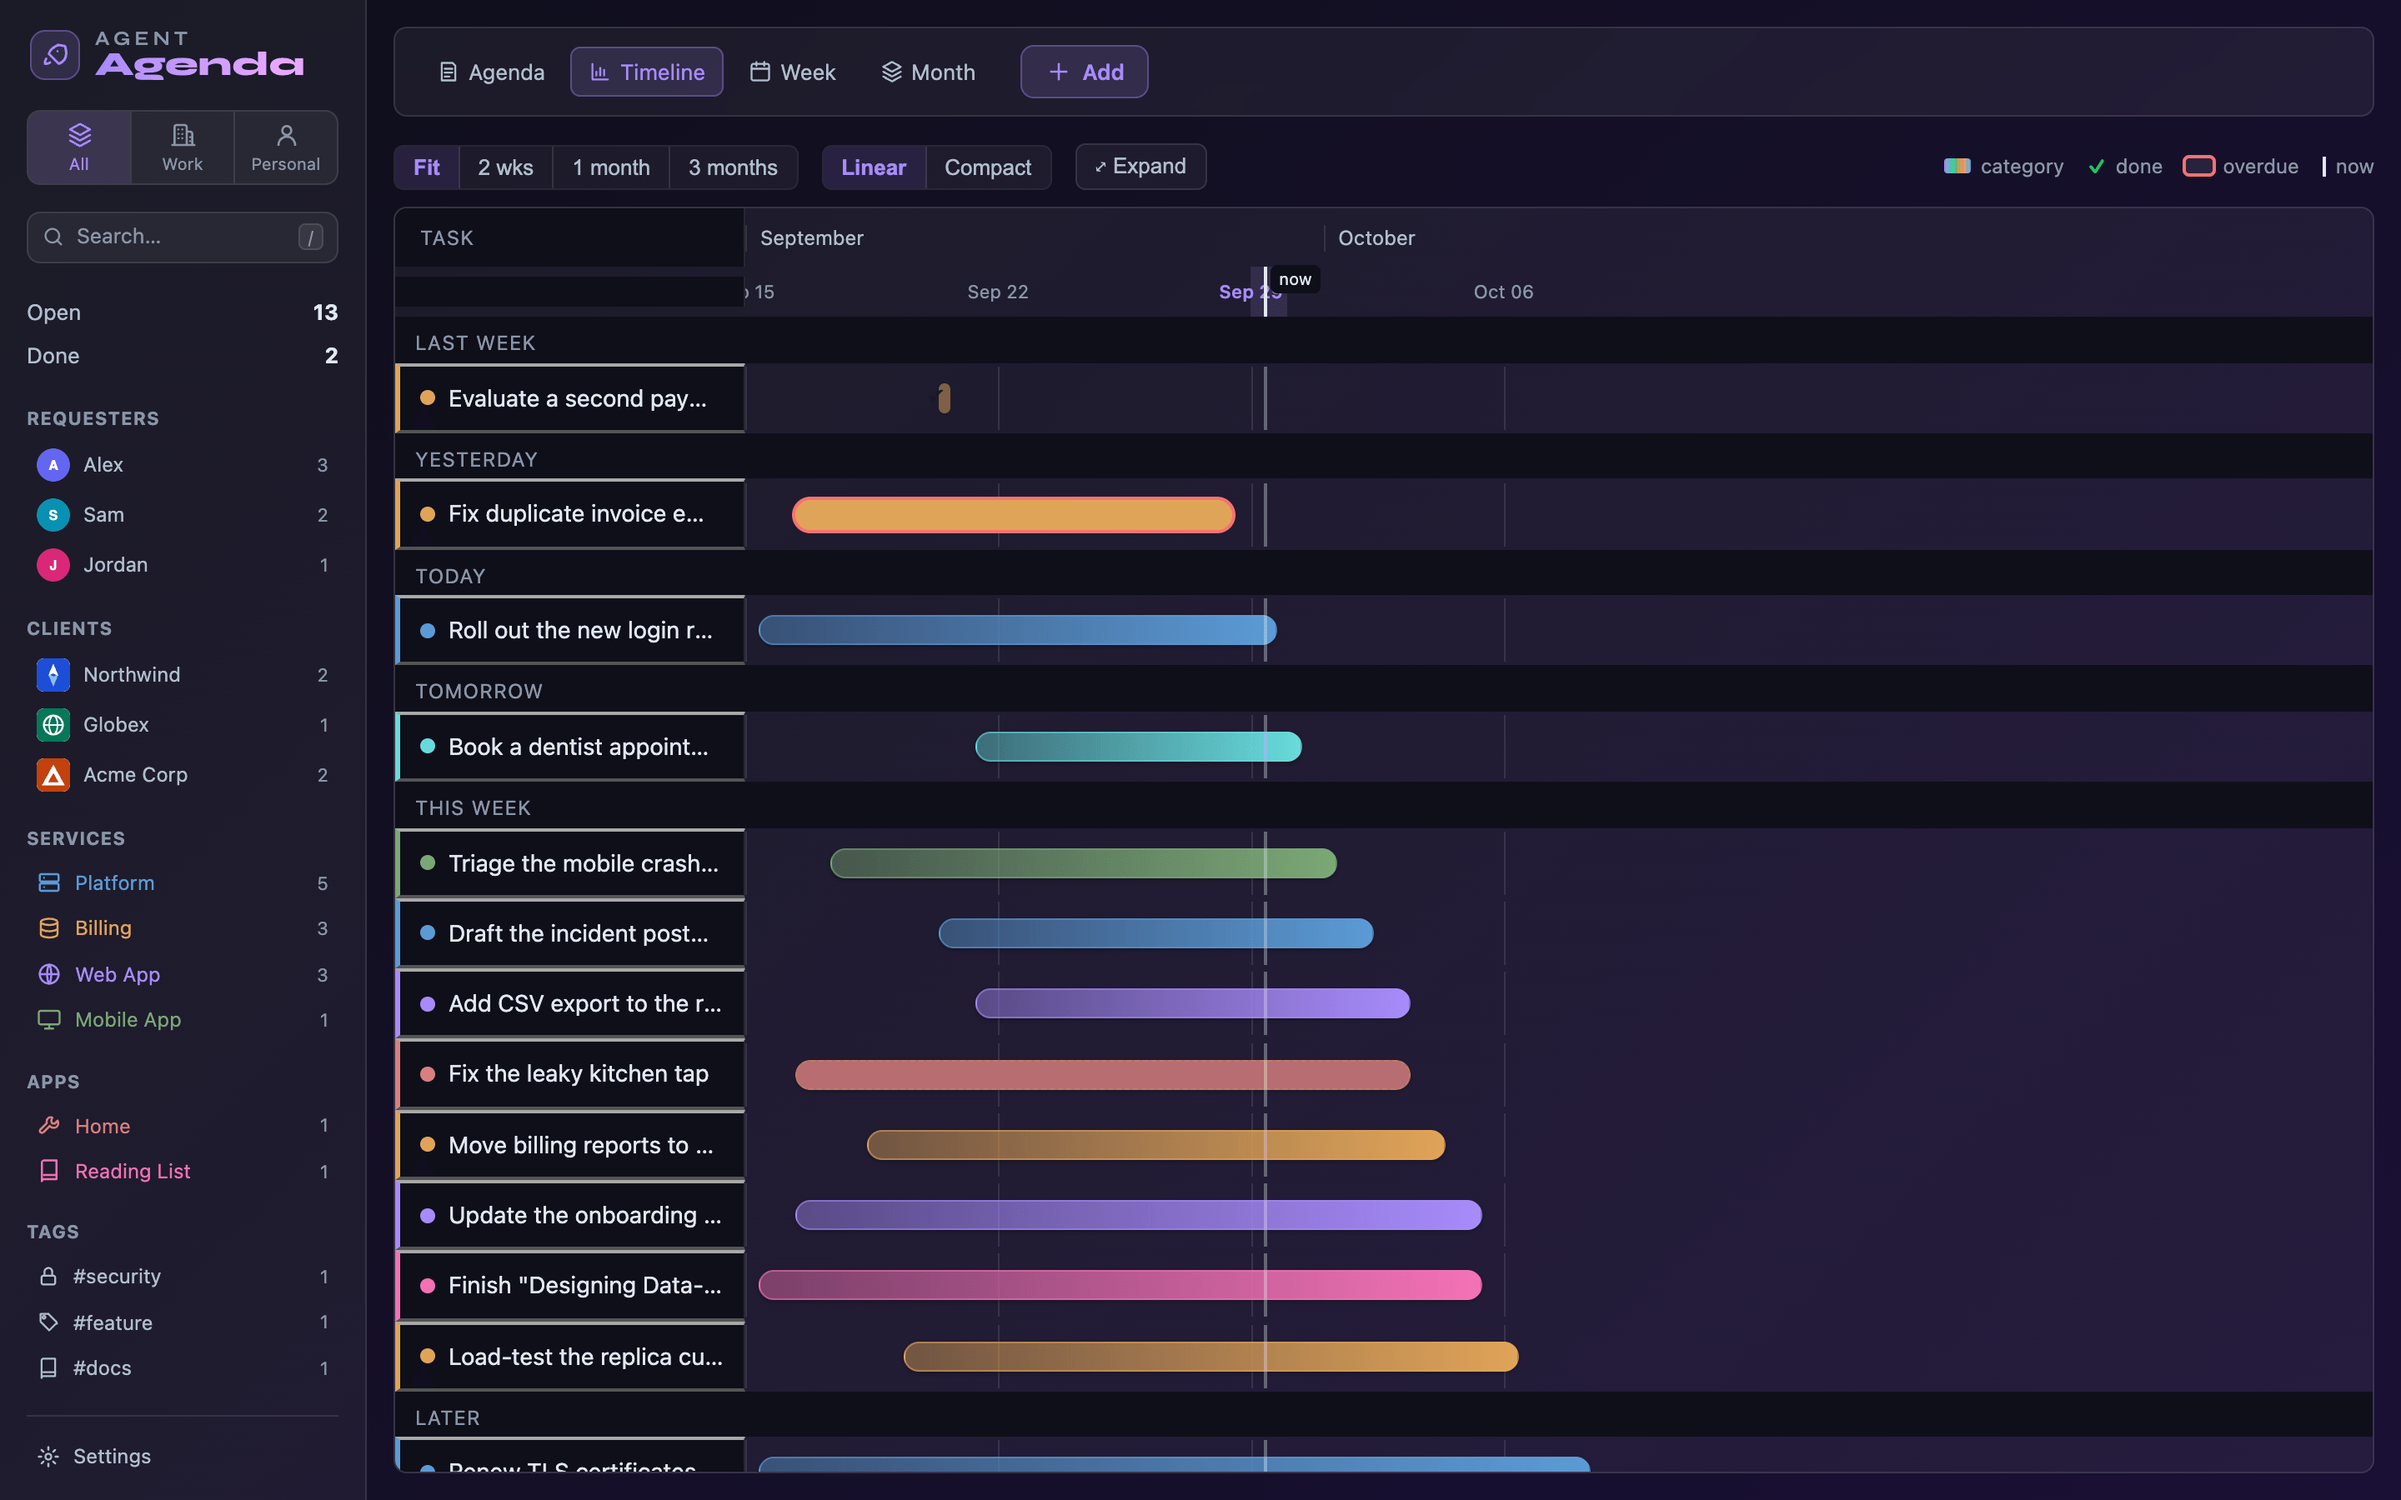
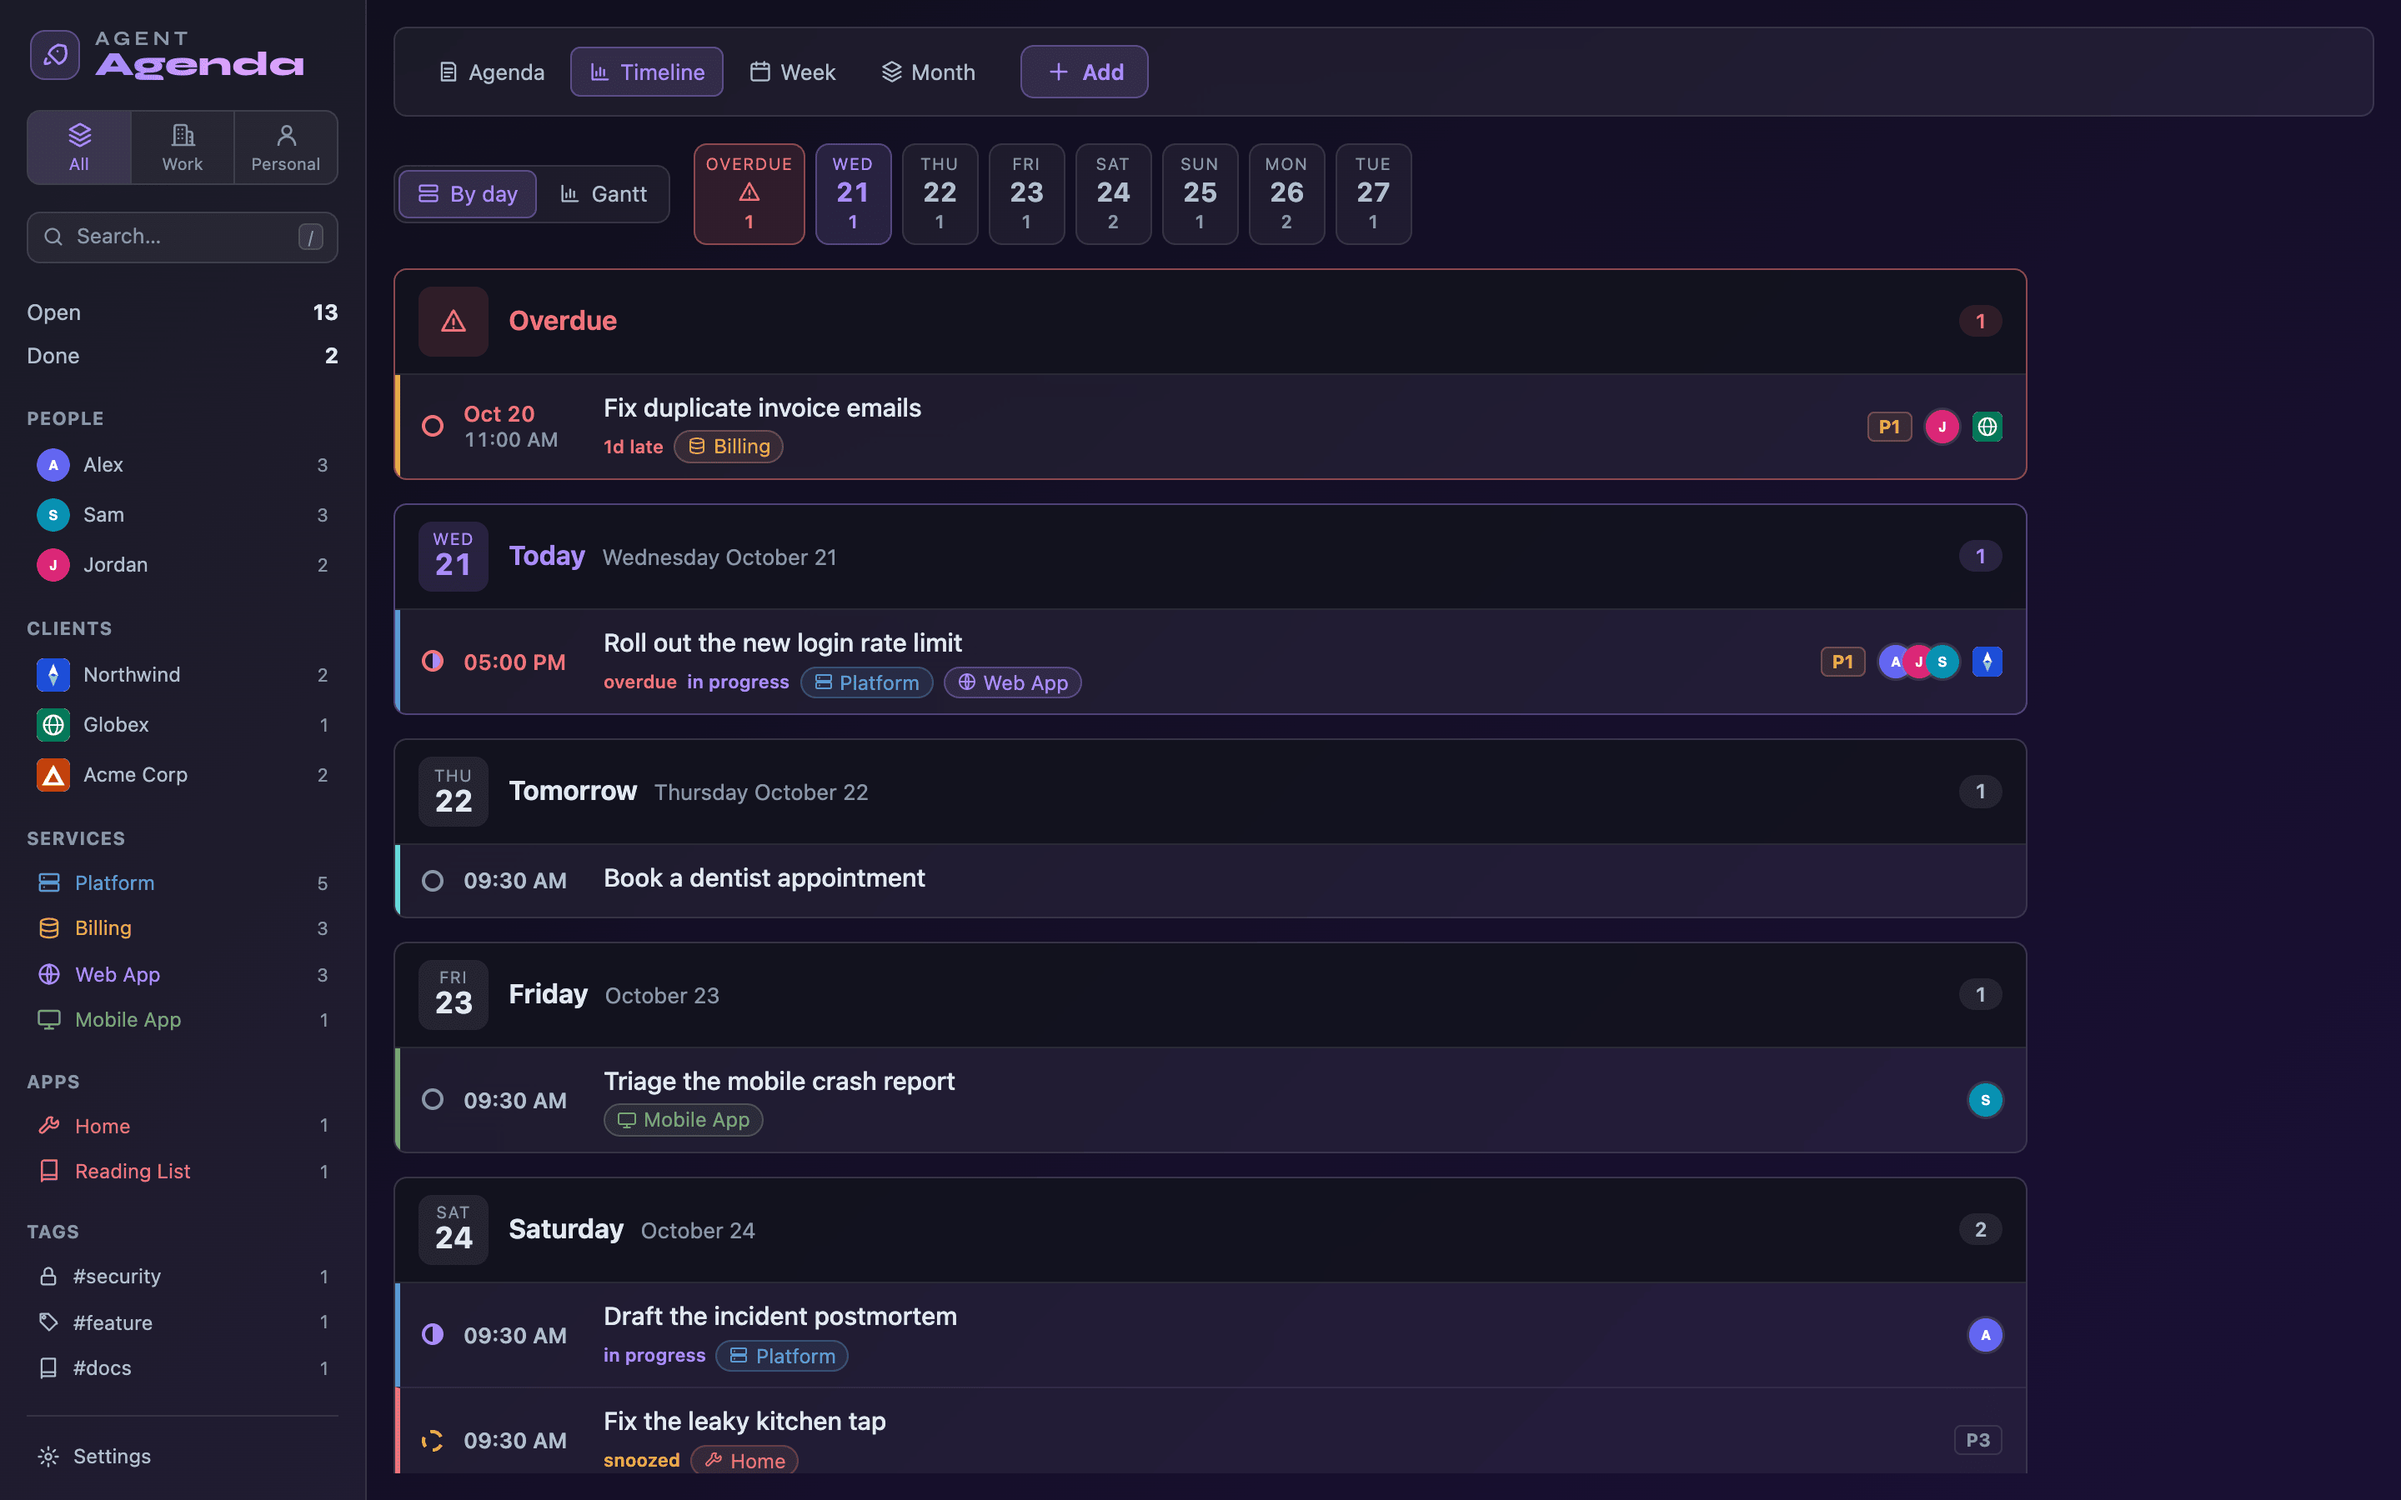
docs: retake the timeline screenshot and add the Gantt mode
The README still showed the old single-mode timeline. Replace it with the
current "By day" view and add a Gantt screenshot next to it, both taken
from the demo seed at the same 1440x900 @2x framing as the other shots.

diff --git a/README.md b/README.md
@@ -56,21 +56,25 @@ a **closing** message (how it ended, ready to send to whoever asked).
 
 ## Screenshots
 
-| Task drawer | Timeline |
+| Timeline, by day | Timeline, Gantt |
 | --- | --- |
-| ![Task drawer with notes, next steps and a closing message](docs/screenshots/task-drawer.png) | ![Timeline view](docs/screenshots/timeline.png) |
+| ![Timeline listing open work day by day: overdue, today and the coming days](docs/screenshots/timeline.png) | ![Timeline in Gantt mode: each task plotted on a time axis](docs/screenshots/gantt.png) |
 
-| Week | Month |
+| Task drawer | Week |
 | --- | --- |
-| ![Week view](docs/screenshots/week.png) | ![Month view](docs/screenshots/month.png) |
+| ![Task drawer with notes, next steps and a closing message](docs/screenshots/task-drawer.png) | ![Week view](docs/screenshots/week.png) |
 
-| Settings | First run |
+| Month | Settings |
 | --- | --- |
-| ![Settings page](docs/screenshots/settings.png) | ![First-run screen](docs/screenshots/first-run.png) |
+| ![Month view](docs/screenshots/month.png) | ![Settings page](docs/screenshots/settings.png) |
 
-| Setup wizard | Phone |
+| First run | Setup wizard |
 | --- | --- |
-| ![Setup wizard](docs/screenshots/onboarding.png) | <img src="docs/screenshots/mobile.png" alt="Agenda on a phone" width="260"> |
+| ![First-run screen](docs/screenshots/first-run.png) | ![Setup wizard](docs/screenshots/onboarding.png) |
+
+| Phone |
+| --- |
+| <img src="docs/screenshots/mobile.png" alt="Agenda on a phone" width="260"> |
 
 ## Quick start
 
